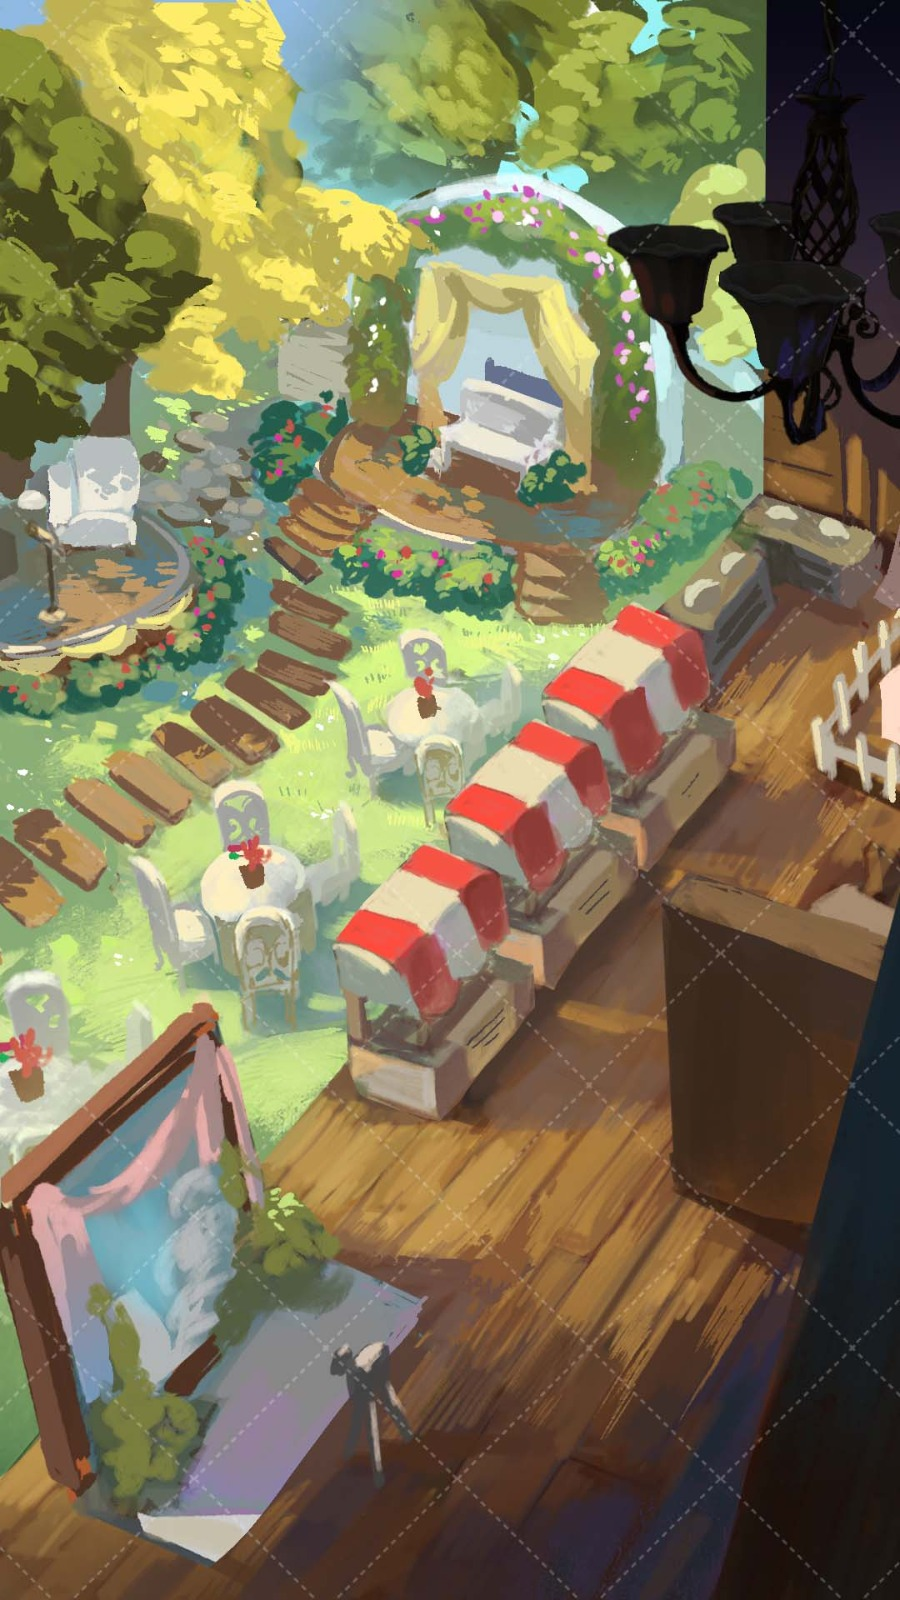
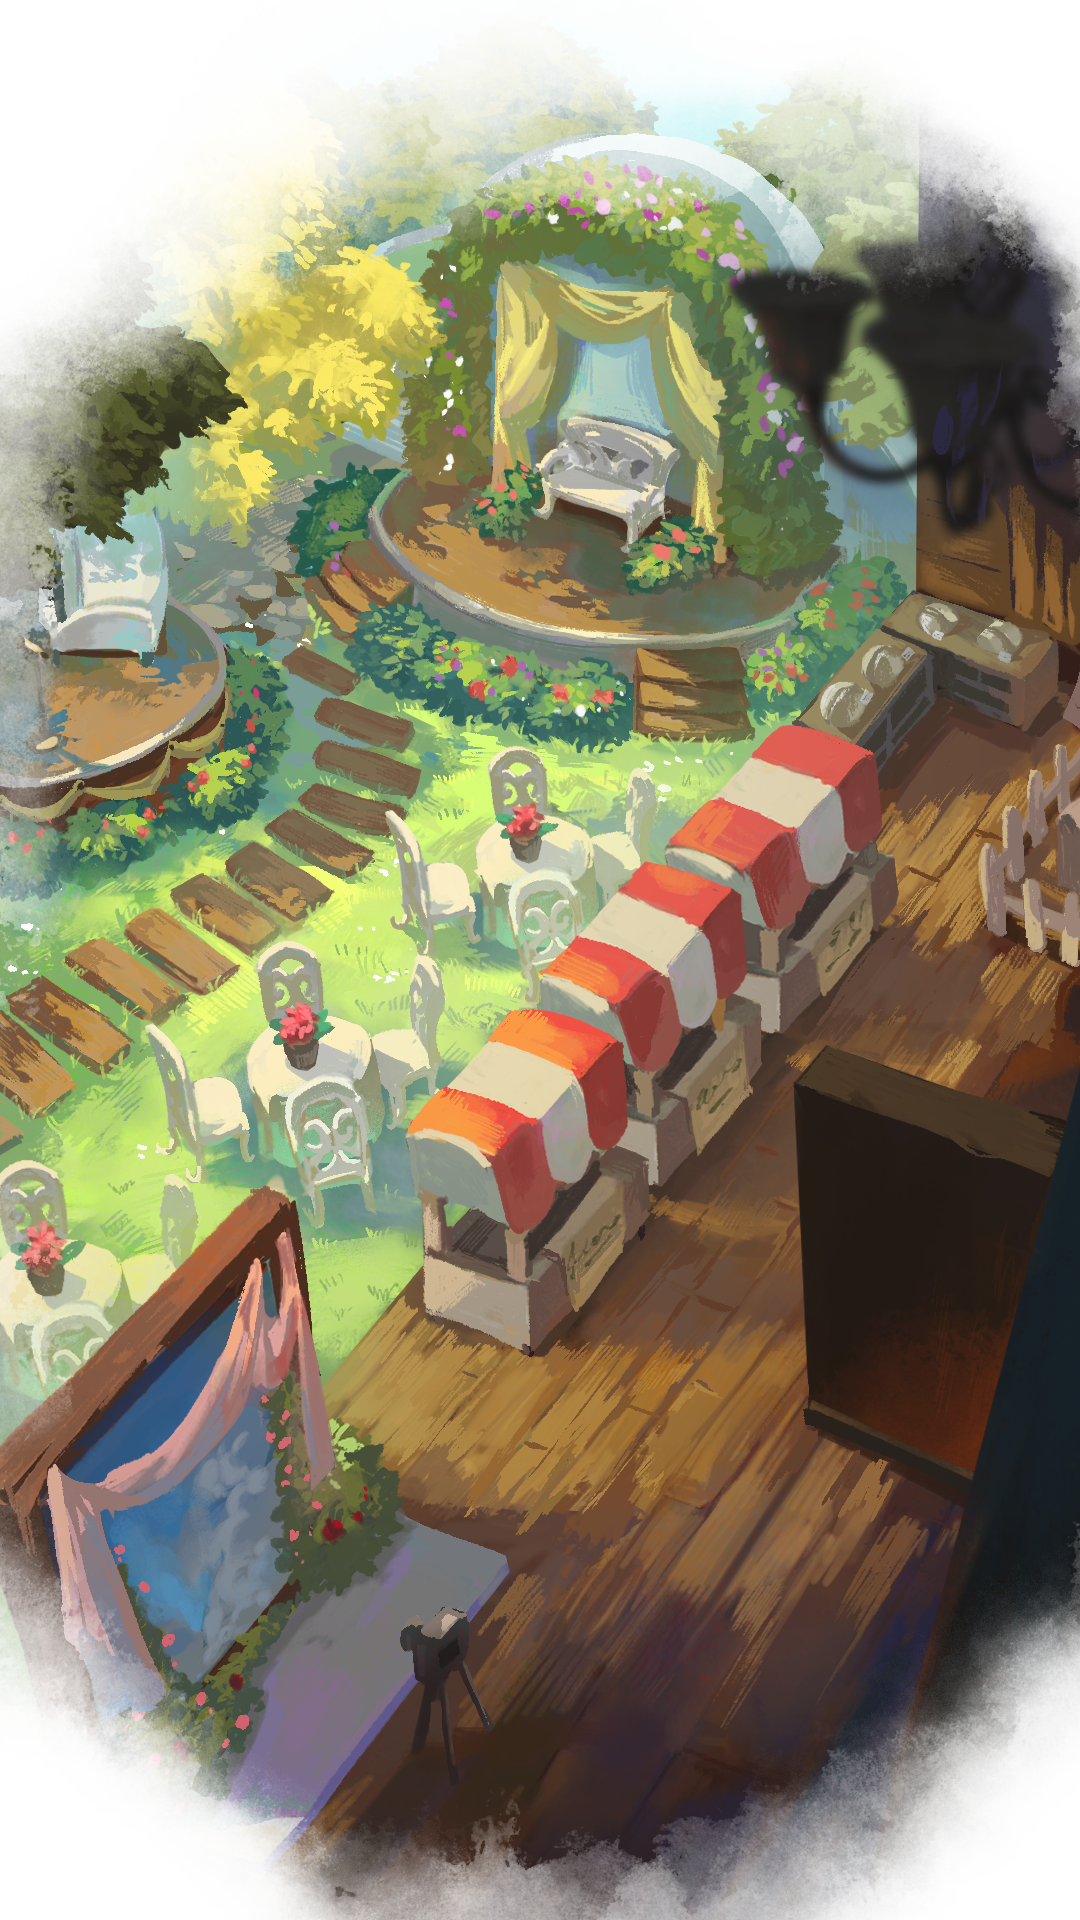
fix: Update invitation details and background styles for consistency

diff --git a/dashboard.html b/dashboard.html
@@ -3,7 +3,7 @@
 <head>
   <meta charset="UTF-8" />
   <meta name="viewport" content="width=device-width, initial-scale=1.0" />
-  <title>Wedding Invitation Editor - Newest Invitation Version</title>
+  <title>Wedding Invitation Editor</title>
   <style>
     @import url('https://fonts.googleapis.com/css2?family=Cinzel:wght@400;500;600;700&family=Cormorant+Garamond:wght@400;500;600;700&family=Great+Vibes&display=swap');
     :root {
@@ -213,8 +213,8 @@
     <div class="main-shell">
       <main class="main">
         <section id="contentPage" class="page active">
-          <div class="page-header"><div><h2>Content</h2><p>Edit names, parents, intro, couple, bride/groom, wedding date, schedule, venue, gifts, dress code, RSVP, and modal text.</p></div></div>
-          <div class="note">Updated for the newest invite version: supports the single couple photo layout, centered bride/groom full-name auto-fit, final gift bank card layout, RSVP themed dropdowns, Gifts page, schedule, Google Map links, and the current map spot structure.</div>
+          <div class="page-header"><div><h2>Content</h2><p>Edit names, parents, intro, couple, bride/groom, date, schedule, venue, gifts, dress code, RSVP, and modal text.</p></div></div>
+          <div class="note">Minimal update for the current invitation file: added missing Gifts, schedule, map, and RSVP modal fields while keeping the editor structure the same.</div>
           <div class="type-selector-wrap">
             <div class="type-label">Name set selector</div>
             <div class="type-selector">
@@ -233,7 +233,7 @@
         </section>
 
         <section id="layoutsPage" class="page">
-          <div class="page-header"><div><h2>Layouts</h2><p>Control page layout, photo positions, bride/groom centered name fitting, map spots, overlays, gifts page, schedule, and opening screen values.</p></div><div class="file-actions"><button class="btn btn-primary" id="saveAllLayoutsButton" disabled>Save All Layouts</button></div></div>
+          <div class="page-header"><div><h2>Layouts</h2><p>Control page layout, photo positions, map spots, overlay spacing, gifts spacing, schedule, and opening screen values.</p></div><div class="file-actions"><button class="btn btn-primary" id="saveAllLayoutsButton" disabled>Save All Layouts</button></div></div>
           <div id="layoutsPanels"></div>
         </section>
 
@@ -517,7 +517,6 @@
         { key: 'brideGroomNameTextAlign', label: 'Bride/Groom name alignment', type: 'text', default: 'center', css: '#bride-name, #groom-name', prop: 'text-align' },
         { key: 'brideGroomNameWhiteSpace', label: 'Bride/Groom name white-space', type: 'text', default: 'nowrap', css: '#bride-name, #groom-name', prop: 'white-space' },
         { key: 'brideGroomNameLetterSpacing', label: 'Bride/Groom name letter spacing', type: 'text', default: '0.012em', css: '#bride-name, #groom-name', prop: 'letter-spacing' },
-        { key: 'brideGroomNameAutoFitMinPx', label: 'Bride/Groom auto-fit minimum px', type: 'number', default: '11', target: 'jsConst', constName: 'minSize' },
         { key: 'parentLineSize', label: 'Parent line font size', type: 'text', default: 'clamp(0.95rem, 3.4vw, 1.18rem)', css: '.parent-line', prop: 'font-size' }
       ]},
       { key: 'date', title: 'Date / Countdown / Schedule', badge: 'countdown + schedule', icon: 'layouts', fields: [
@@ -553,18 +552,6 @@
         { key: 'rsvpTextareaHeight', label: 'RSVP textarea height', type: 'text', default: '74px', css: '#page-rsvp textarea', prop: 'height' },
         { key: 'giftsCardPadding', label: 'Gifts card padding', type: 'text', default: '1.8rem', css: '#page-gifts .gift-card', prop: 'padding' },
         { key: 'giftOptionsGap', label: 'Gifts options gap', type: 'text', default: '0.48rem', css: '#page-gifts .gift-options', prop: 'gap' }
-      ]},
-      { key: 'giftBank', title: 'Gift Bank Card Layout', badge: 'final v24 grid', icon: 'gifts', fields: [
-        { key: 'giftAccountGridColumns', label: 'Bank card grid columns', type: 'text', default: 'minmax(0, 1fr) auto', css: '#page-gifts .gift-option.gift-account-option, #page-gifts .gift-account-option', prop: 'grid-template-columns' },
-        { key: 'giftAccountPadding', label: 'Gift bank card padding', type: 'text', default: '0.70rem 0.95rem', css: '#page-gifts .gift-option.gift-account-option, #page-gifts .gift-account-option', prop: 'padding' },
-        { key: 'giftAccountRadius', label: 'Gift bank card radius', type: 'text', default: '16px', css: '#page-gifts .gift-option.gift-account-option, #page-gifts .gift-account-option', prop: 'border-radius' },
-        { key: 'giftAccountColumnGap', label: 'Gift bank card column gap', type: 'text', default: '0.75rem', css: '#page-gifts .gift-option.gift-account-option, #page-gifts .gift-account-option', prop: 'column-gap' },
-        { key: 'giftBankNameSize', label: 'Bank name font size', type: 'text', default: '0.95rem', css: '#page-gifts .gift-bank-name', prop: 'font-size' },
-        { key: 'giftAccountNumberSize', label: 'Account number font size', type: 'text', default: '0.78rem', css: '#page-gifts .gift-account-number', prop: 'font-size' },
-        { key: 'giftAccountHolderSize', label: 'Account holder font size', type: 'text', default: '0.88rem', css: '#page-gifts .gift-account-holder', prop: 'font-size' },
-        { key: 'giftCopyButtonMinWidth', label: 'Copy button min width', type: 'text', default: '98px', css: '#page-gifts .gift-copy-button', prop: 'min-width' },
-        { key: 'giftCopyButtonPadding', label: 'Copy button padding', type: 'text', default: '0.42rem 0.78rem', css: '#page-gifts .gift-copy-button', prop: 'padding' },
-        { key: 'giftCopyButtonFontSize', label: 'Copy button font size', type: 'text', default: '0.62rem', css: '#page-gifts .gift-copy-button', prop: 'font-size' }
       ]},
       { key: 'themeSelect', title: 'RSVP Themed Dropdowns', badge: 'custom select UI', icon: 'layouts', fields: [
         { key: 'themeSelectMarginBottom', label: 'Dropdown bottom margin', type: 'text', default: '0.78rem', css: '.theme-select', prop: 'margin-bottom' },
@@ -734,27 +721,41 @@
     function getCoupleScriptValue(html, lang) {
       const blockStart = html.indexOf("setText('couple-script'");
       if (blockStart === -1) return '';
-      const block = html.slice(blockStart, html.indexOf(');', blockStart) + 2);
+      const blockEnd = html.indexOf(');', blockStart);
+      if (blockEnd === -1) return '';
+      const block = html.slice(blockStart, blockEnd + 2);
+
       if (lang === 'id') {
-        const m = block.match(/\?\s*'([\s\S]*?)'\s*:/);
-        return m ? unescapeJs(m[1]) : '';
+        const m = block.match(/\?\s*(['`])([\s\S]*?)\1\s*:/);
+        return m ? replacePlaceholders(unescapeJs(m[2])) : '';
       }
-      const m = block.match(/:\s*`([\s\S]*?)`\s*\);/);
-      return m ? replacePlaceholders(m[1]) : '';
+
+      const m = block.match(/:\s*(['`])([\s\S]*?)\1\s*\);/);
+      return m ? replacePlaceholders(unescapeJs(m[2])) : '';
     }
     function replaceCoupleScriptValue(html, lang, value) {
       const blockStart = html.indexOf("setText('couple-script'");
       if (blockStart === -1) return { html, changed: false };
-      const blockEnd = html.indexOf(');', blockStart) + 2;
+      const rawBlockEnd = html.indexOf(');', blockStart);
+      if (rawBlockEnd === -1) return { html, changed: false };
+      const blockEnd = rawBlockEnd + 2;
       let block = html.slice(blockStart, blockEnd);
       let changed = false;
+
       if (lang === 'id') {
-        const re = /(\?\s*)'([\s\S]*?)'(\s*:)/;
-        if (re.test(block)) { block = block.replace(re, (_, p1, old, p3) => p1 + "'" + escapeJs(value) + "'" + p3); changed = true; }
+        const re = /(\?\s*)(['`])([\s\S]*?)\2(\s*:)/;
+        if (re.test(block)) {
+          block = block.replace(re, (_, p1, quote, old, p4) => p1 + '`' + restorePlaceholdersId(value).replace(/`/g, '\\`') + '`' + p4);
+          changed = true;
+        }
       } else {
-        const re = /(:\s*)`([\s\S]*?)`(\s*\);)/;
-        if (re.test(block)) { block = block.replace(re, (_, p1, old, p3) => p1 + '`' + restorePlaceholders(value).replace(/`/g, '\\`') + '`' + p3); changed = true; }
+        const re = /(:\s*)(['`])([\s\S]*?)\2(\s*\);)/;
+        if (re.test(block)) {
+          block = block.replace(re, (_, p1, quote, old, p4) => p1 + '`' + restorePlaceholders(value).replace(/`/g, '\\`') + '`' + p4);
+          changed = true;
+        }
       }
+
       return changed ? { html: html.slice(0, blockStart) + block + html.slice(blockEnd), changed: true } : { html, changed: false };
     }
 
@@ -1141,7 +1142,7 @@
       extractSettingsValues(); layoutsPanels.innerHTML = '';
       const leftColumn = document.createElement('div'); const rightColumn = document.createElement('div');
       leftColumn.className = 'layout-column'; rightColumn.className = 'layout-column';
-      const leftKeys = new Set(['global', 'couple', 'date', 'overlay', 'giftBank']);
+      const leftKeys = new Set(['global', 'couple', 'date', 'overlay']);
       LAYOUT_SECTIONS.forEach(sec => { const panel = renderSettingsSection(sec, 'layout-section'); if (leftKeys.has(sec.key)) leftColumn.appendChild(panel); else rightColumn.appendChild(panel); });
       layoutsPanels.appendChild(leftColumn); layoutsPanels.appendChild(rightColumn);
       saveAllLayoutsButton.disabled = !currentHtml;

diff --git a/index.html b/index.html
@@ -31,7 +31,7 @@
       --bg-couple: linear-gradient(160deg, #f5f0e8 0%, #e8ddd0 50%, #d8e0d0 100%);
       --bg-bride-groom: linear-gradient(170deg, #faf6f0 0%, #f0e8e0 60%, #e8ddd4 100%);
       --bg-date: linear-gradient(160deg, #f0ebe3 0%, #e5ddd0 40%, #d4c8b8 100%);
-      --bg-menu: linear-gradient(180deg, #c8d8c4 0%, #b8c8a8 40%, #a8b898 100%);
+      --bg-menu: linear-gradient(180deg, #d4c8b8 0%, #d4c8b8 40%, #d4c8b8 100%);
 
       --music-volume: 0.3;
       --music-fade-duration: 6000;
@@ -4620,7 +4620,7 @@
             <a
               id="gift-wishlist-button"
               class="gift-wishlist-button"
-              href="https://example.com/wishlist"
+              href="https://www.myregistry.com/wedding-registry/winda-natakusumah-and-hanif-atthariq-bandung-jawa-barat/5464973"
               target="_blank"
               rel="noopener"
             >Open Wishlist</a>
@@ -5305,7 +5305,7 @@
     const parents = {
       groomFather: 'Bapak Pudjo Prasetyo',
       groomMother: 'Ibu Efda R. Bandini',
-      brideFather: 'Bapak Ir. Hidayat Natakusumah',
+      brideFather: 'Bapak Hidayat Natakusumah',
       brideMother: 'Ibu Wini Dewi Kania'
     };
 
@@ -5411,7 +5411,7 @@
       setText('intro-couple-name', couple.display);
       setText('couple-title', couple.display);
       setText('couple-script', language === 'id'
-        ? `${couple.text} mengundang Bapak/Ibu untuk menghadiri acara pernikahan kami`
+        ? `Dengan memohon Rahmat dan Ridho Allah Subhanahu Wa Ta'ala kami bermaksud untuk mengundang Bapak/Ibu/Saudara/i untuk menghadiri acara pernikahan kami`
         : `${couple.text} are excited to share this special day with you.`
       );
 